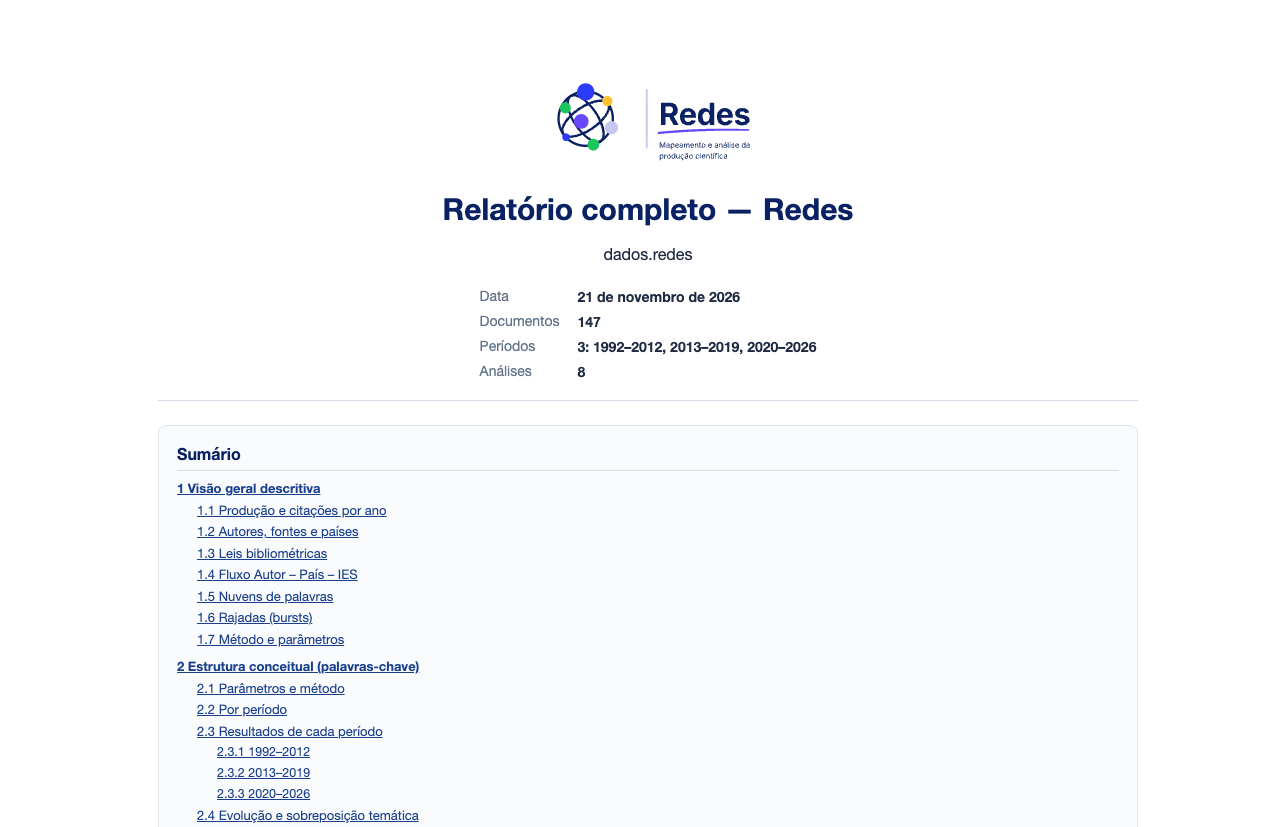
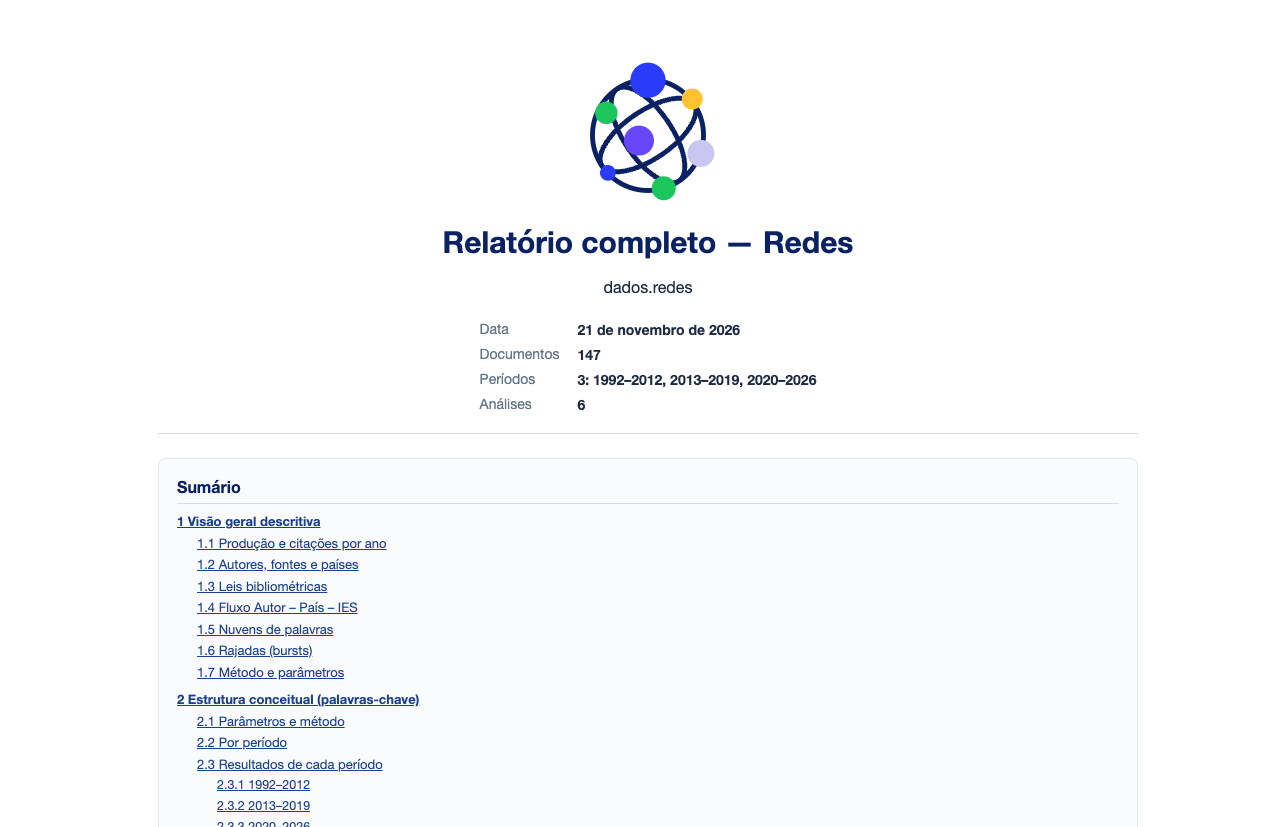
Marca: usa a rede em halos sem o nome em todo o projeto

Changed region(s): [[0.1249, 0.5441, 0.3435, 1.0], [0.3435, 0.0605, 0.687, 0.3628], [0.3747, 0.3325, 0.6557, 0.5139]]

diff --git a/redes/relatorio_unico.py b/redes/relatorio_unico.py
@@ -42,7 +42,7 @@ _CSS_EXTRA = """
 .sumario li.n4 { padding-left:40px; font-size:12.5px; }
 .sumario small { color:#64748B; }
 .capa { text-align:center; padding:28px 0 18px; border-bottom:1px solid #D7DBE6; margin-bottom:24px; }
-.capa img.logo-capa, .capa svg.logo-capa { width:220px; height:auto; margin:0 auto 10px; display:block; }
+.capa img.logo-capa, .capa svg.logo-capa { width:150px; height:150px; margin:0 auto 10px; display:block; }
 .capa h1 { border:0; font-size:30px; margin:6px 0 4px; }
 .capa .projeto { font-size:16px; color:#1F2A44; margin:0 0 14px; }
 .capa dl { display:inline-grid; grid-template-columns:auto auto; gap:4px 18px; text-align:left;

diff --git a/redes/report.py b/redes/report.py
@@ -114,7 +114,7 @@ img.mapa-sobreposicao { display:block; margin:10px auto; }
              padding-bottom:10px; margin-bottom:24px; }
 .marca-relatorio { font-size:10px; font-weight:600; letter-spacing:.14em;
                    text-transform:uppercase; color:#64748B; margin:0; }
-.logo-relatorio { display:block; height:32px; width:auto; flex:none; }
+.logo-relatorio { display:block; height:40px; width:auto; flex:none; }
 .voltar { margin:0 0 10px; font-size:13px; }
 .sumario { position:sticky; top:0; background:#fff; padding:8px 0; border-bottom:1px solid #E6E9F2; margin:0 0 18px;
   display:flex; flex-wrap:wrap; gap:6px 16px; font-size:13px; z-index:2; }

diff --git a/tests/test_v2_02_cli_erros.py b/tests/test_v2_02_cli_erros.py
@@ -2,6 +2,7 @@
 import pytest
 
 from redes import cli
+import redes
 from redes.cli import main
 
 
@@ -51,7 +52,7 @@ def test_versao(capsys):
     with pytest.raises(SystemExit) as saida:
         main(["--version"])
     assert saida.value.code == 0
-    assert "redes 0.1.1" in capsys.readouterr().out
+    assert f"redes {redes.__version__}" in capsys.readouterr().out
 
 
 def test_debug_devolve_traceback(tmp_path, monkeypatch):

diff --git a/tests/test_v2_01_sem_referencias_externas.py b/tests/test_v2_01_sem_referencias_externas.py
@@ -65,4 +65,4 @@ def test_sobre_cita_o_autor():
 
 
 def test_versao():
-    assert redes.__version__ == "0.1.1"
+    assert re.fullmatch(r"\d+\.\d+\.\d+", redes.__version__)

diff --git a/redes/__init__.py b/redes/__init__.py
@@ -1,3 +1,3 @@
 """Redes: mapeamento científico (bibliometria) com interface web local."""
 
-__version__ = "0.1.1"
+__version__ = "0.2.0"

diff --git a/docs/CHANGELOG.md b/docs/CHANGELOG.md
@@ -1,6 +1,25 @@
 # Mudanças
 
-## Não publicada
+## 0.2.0 — 21/11/2026
+
+### Interface
+- Menu lateral por tarefa (**Temas**, **Citações**, **Colaboração**) e barra de
+  resultados por bloco (**Visão geral**, **Mapas**, **Tabelas**, **Métodos**,
+  **Comparar**).
+- Cada análise mostra só as visões que lhe dizem respeito: Países (mapa e
+  densidade), Instituições (rede e densidade) e Coautoria (rede, dendrograma,
+  linha do tempo e densidade).
+- O seletor de período começa em **Todos os períodos**; os recortes por período
+  vêm depois.
+- Frequência mínima automática: quando a rede passa de 14 temas, o corte sobe
+  sozinho até 6 para manter a leitura possível; as predefinições *Padrão*,
+  *Mais estrita* e *Mais ampla* continuam disponíveis.
+- Saíram o **modo avançado**, a aba **Resumo** e o botão *Ignorar e reanalisar*:
+  todos os parâmetros ficam à vista na própria análise.
+- Saiu a faixa amarela de avisos: os limites mínimos continuam nos dados da API
+  e por extenso no *Relatório completo*, mas não repetem o que a tela já mostra.
+- Selo **Qualidade** (OK, Atenção, Ruim, Indefinido) resume a leitura do mapa.
+- A marca passou a ser usada sozinha (a rede em halos), sem o nome ao lado: vale para o cabeçalho e a capa do *Relatório completo*, para o site e para o README.
 
 ### Correções
 - Evolução temática: o *Relatório completo* e a aba *Evolução temática* mostravam contagens diferentes para o mesmo corpus (Celi, 2008-2014, 2015-2020, 2021-2026: 3 temas no relatório e 22 na aba). Causa: não era sobreposição nem contagem diferente de "temas", e sim a **frequência mínima**. A aba usava a da tela (1); o relatório ignorava a tela e escolhia sozinho a maior entre 3, 2 e 1 que ainda dava agrupamento em todos os períodos (3, com um tema por período). Agora o relatório gerado pela interface usa os parâmetros da tela (frequência e co-ocorrência mínimas, corte, tamanho da rede, similaridade e algoritmo); sem frequência informada (uso direto da API), mantém a escolha automática e a descreve no texto da seção ("escolhida automaticamente" ou "a mesma da tela").

diff --git a/README.md b/README.md
@@ -1,5 +1,5 @@
 <p align="center">
-  <img src="redes/assets/logo.svg" alt="Redes" width="420">
+  <img src="redes/assets/logo.svg" alt="Redes" width="160">
 </p>
 
 # Redes
@@ -7,7 +7,7 @@
 **Mapeamento científico e análise de redes da produção acadêmica, com interface web local em português.** Importe o arquivo exportado da sua base (Scopus, Web of Science, OpenAlex, Zotero, BibTeX, RIS ou CSV) e veja temas, autores, referências e colaboração, período a período.
 
 ![Licença](https://img.shields.io/badge/licen%C3%A7a-GPL--3.0--or--later-blue)
-![Versão](https://img.shields.io/badge/vers%C3%A3o-0.1.1-brightgreen)
+![Versão](https://img.shields.io/badge/vers%C3%A3o-0.2.0-brightgreen)
 ![Python](https://img.shields.io/badge/python-%E2%89%A53.10-informational)
 
 ## Galeria
@@ -98,7 +98,7 @@ Os testes de interface usam Playwright e Chrome; sem eles, são pulados. Estrutu
 
 Veja [CITATION.cff](CITATION.cff). Sugestão:
 
-> SILVA, Gerlan Silva da. *Redes: mapeamento científico e análise de redes da produção acadêmica* (versão 0.1.1). 2026. Disponível em: https://github.com/gerlansilva/redes.
+> SILVA, Gerlan Silva da. *Redes: mapeamento científico e análise de redes da produção acadêmica* (versão 0.2.0). 2026. Disponível em: https://github.com/gerlansilva/redes.
 
 ## Referências metodológicas
 
